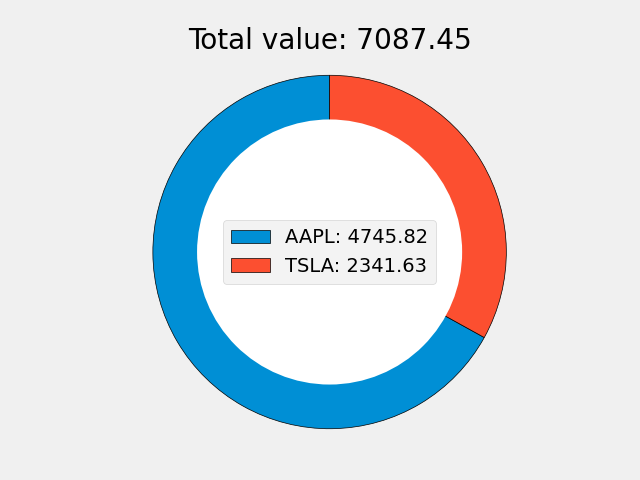
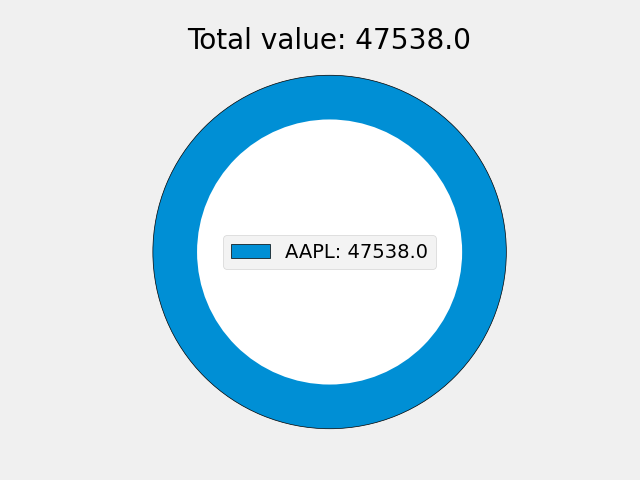
Fix Portfolio Table and Graph Bug when no stocks

Changed region(s): [[0.5, 0.1562, 0.8125, 0.7188], [0.3438, 0.4688, 0.6875, 0.5938], [0.2812, 0.0625, 0.75, 0.125]]

diff --git a/main.py b/main.py
@@ -16,10 +16,8 @@ import datetime
 
 # TODO Fix the critical Error with the MDCards, probably has to do with using root.size on the buttons and such.
 # TODO When the Rank changes also change the background, each rank has a distinct design.
-# TODO loading screen feature when changing to the plot screens (Portfolio and each stock graphic).
 # TODO Implement a save feature.
 # TODO Implement the "Investing Guide"
-
 
 aapl = pd.read_csv('stocksDB/aapl.csv')
 tsla = pd.read_csv('stocksDB/tsla.csv')
@@ -38,7 +36,7 @@ class StockApp(MDApp):
     ownedStocks = {"AAPL": 0, "TSLA": 0, "GOOGL": 0, "AMZN": 0, "^GSPC": 0, "^IXIC": 0}
     currentScreens = {"AAPL": False, "TSLA": False, "GOOGL": False, "AMZN": False, "^GSPC": False, "^IXIC": False, "portfolio": False}
     screenNames = {"AAPL": 'first', "TSLA": 'second', "GOOGL": 'third', "AMZN": 'fourth', "^GSPC": 'fifth', "^IXIC": 'sixth', "portfolio": 'portfolio'}
-    spentOnStocks = {"AAPL": 0, "TSLA": 0, "GOOGL": 0, "AMZN": 0, "^GSPC": 0, "^IXIC": 0}
+    spentOnStocks = {"AAPL": 0.00, "TSLA": 0.00, "GOOGL": 0.00, "AMZN": 0.00, "^GSPC": 0.00, "^IXIC": 0.00}
     cont = '' # Holds the name of the stock the Dialog Content will display.
     stockHistory= [] # Holds all the transactions made by the user.
     userMoney = NumericProperty(100000.00)
@@ -99,7 +97,7 @@ class StockApp(MDApp):
         elif TotalValue >= 500000 and TotalValue < 1000000:
             RankAlias.text = "Genius Investor"
         else:
-            RankAlias.text = "Warren Buffett Advisor"
+            RankAlias.text = "Warren Buffett's Advisor"
     
     def ToGraph(self, button):
         """
@@ -171,9 +169,9 @@ class StockApp(MDApp):
         self.pastStockValuesDict[stock.parent.name] =  self.currentStockPrice[stock.parent.name]
 
         if pastValue > self.currentStockPrice[stock.parent.name]:
-            return f'Diff: -{"{:,.2f}$".format(diff)} (-{"{:,.2f}%".format(diffPercent)})'
+            return f'Diff: [b][color=be3228]-{"{:,.2f}$".format(diff)} (-{"{:,.2f}%".format(diffPercent)})[/color][/b]' # Setting colors and Bold text on the labels.
         elif pastValue < self.currentStockPrice[stock.parent.name]:
-            return f'Diff: +{"{:,.2f}$".format(-diff)} (+{"{:,.2f}%".format(-diffPercent)})'
+            return f'Diff: [b][color=4CAE51]+{"{:,.2f}$".format(-diff)} (+{"{:,.2f}%".format(-diffPercent)})[/color][/b]'
         else:
             return "Diff: +/- 0 (+-0)$"
 
@@ -308,10 +306,10 @@ class StockApp(MDApp):
 
         if len(recentTradesLabels) > 10:
             self.root.get_screen("main").ids['recent_trades'].remove_widget(recentTradesLabels[-1]) 
-        recent = MDLabel(text=f"{day.time().hour}:{day.strftime('%M')} -- Bought: {int(aka.ids.text_input.text)} of {aka.stockName}", font_size=  self.root.get_screen("main").ids['recent_trades'].parent.parent.fontSize)
+        recent = MDLabel(text=f"· {day.time().hour}:{day.strftime('%M')} -- Bought: {int(aka.ids.text_input.text)} of {aka.stockName}", font_size=  self.root.get_screen("main").ids['recent_trades'].parent.parent.fontSize)
         self.root.get_screen("main").ids['recent_trades'].add_widget(recent)
 
-        self.stockHistory.append(f"{day.date()} {day.time().hour}:{day.strftime('%M')} -- Bought: {int(aka.ids.text_input.text)} of {aka.stockName}")
+        self.stockHistory.append(f"· {day.date()} {day.time().hour}:{day.strftime('%M')} -- Bought: {int(aka.ids.text_input.text)} of {aka.stockName}")
 
         ### Portolio screen changes (update values and graph.)
         if self.currentScreens['portfolio']:
@@ -332,9 +330,9 @@ class StockApp(MDApp):
         if int(aka.ids.text_input.text) > aka.ids.sell_slider.max:
             aka.ids.text_input.text = str(int(aka.ids.sell_slider.max))
 
+        self.spentOnStocks[aka.stockName] = round((self.spentOnStocks[aka.stockName] - (int(aka.ids.text_input.text) * (self.spentOnStocks[aka.stockName] / self.ownedStocks[aka.stockName]))), 2) # Just a fake relationship between the spent price and the amount of stocks that the user have, to avoid having the error of money spent over 0 when the user has no more stocks.
         self.ownedStocks[aka.stockName] -= int(aka.ids.text_input.text)
         self.userMoney += round((int(aka.ids.text_input.text) * float(self.pastStockValuesDict[aka.stockName])), 2)
-        self.spentOnStocks[aka.stockName] = round((self.spentOnStocks[aka.stockName] - (int(aka.ids.text_input.text) * float(self.pastStockValuesDict[aka.stockName]))), 2)
 
         ### Update the values from the stock screen drawer (Like the stocks owned and cash on hand).
         if self.currentScreens[aka.stockName]:
@@ -353,10 +351,10 @@ class StockApp(MDApp):
 
         if len(recentTradesLabels) > 10:
             self.root.get_screen("main").ids['recent_trades'].remove_widget(recentTradesLabels[-1]) 
-        recent = MDLabel(text=f"{day.time().hour}:{day.strftime('%M')} -- Sold: {int(aka.ids.text_input.text)} of {aka.stockName}", font_size=  self.root.get_screen("main").ids['recent_trades'].parent.parent.fontSize)
+        recent = MDLabel(text=f"· {day.time().hour}:{day.strftime('%M')} -- Sold: {int(aka.ids.text_input.text)} of {aka.stockName}", font_size=  self.root.get_screen("main").ids['recent_trades'].parent.parent.fontSize)
         self.root.get_screen("main").ids['recent_trades'].add_widget(recent)
 
-        self.stockHistory.append(f"{day.date()} {day.time().hour}:{day.strftime('%M')} -- Sold: {int(aka.ids.text_input.text)} of {aka.stockName}")
+        self.stockHistory.append(f"· {day.date()} {day.time().hour}:{day.strftime('%M')} -- Sold: {int(aka.ids.text_input.text)} of {aka.stockName}")
         
         ### Portolio screen changes (update values and graph.)
         if self.currentScreens['portfolio']:

diff --git a/libs/uix/baseclass/portfolio.py b/libs/uix/baseclass/portfolio.py
@@ -24,9 +24,7 @@ class Portfolio(Screen):
         super().__init__(**kw)
         thing.currentScreens['portfolio'] = True
 
-        for key in thing.ownedStocks:
-            if thing.ownedStocks[key] > 0:
-                self.haveStocks = True
+        self.CheckStocks()
         
         if self.haveStocks == True:
             self.PlotPie()
@@ -54,11 +52,51 @@ class Portfolio(Screen):
                     )
         self.ids.table.add_widget(self.table)
     
+    def CheckStocks(self):
+        """
+        Checks if the user has stocks and sets the value of self.haveStock accordingly.
+        """
+        for key in thing.ownedStocks:
+            if thing.ownedStocks[key] > 0:
+                self.haveStocks = True
+                return
+        self.haveStocks = False
+        return     
+
     def Update(self):
         """
         When called the pie chart and the values of the stocks in the grid are updated IF self.changes is True.
         This function is called each time the portfolio screen selected.
         """
+        self.CheckStocks() # Checks if the user has stocks remaining.
+        
+        if self.haveStocks == False: # In case he doesn't then it changes the graph image to the base one.
+            self.ids.graph.source = "images/piechartbase.png"
+            self.ids.table.remove_widget(self.ids.table.children[0])
+            self.table = MDDataTable(
+                            size_hint=(1, 1),
+                            pos_hint= {'center_x': 0.5, 'center_y': 0.5},
+                            rows_num= 6,
+                            background_color_header= (76/255,174/255,81/255,1),
+                            column_data= [
+                                ("Stock", dp(17)),
+                                ("Amount", dp(17)),
+                                ("Total Payed", dp(17)),
+                                ("Total Value", dp(17))
+                            ],
+                            row_data= [
+                                ("AAPL",thing.ownedStocks["AAPL"],thing.spentOnStocks["AAPL"],round(thing.ownedStocks["AAPL"] * thing.currentStockPrice["AAPL"], 2)),
+                                ("TSLA",thing.ownedStocks["TSLA"],thing.spentOnStocks["TSLA"],round(thing.ownedStocks["TSLA"] * thing.currentStockPrice["TSLA"], 2)),
+                                ("GOOGL",thing.ownedStocks["GOOGL"],thing.spentOnStocks["GOOGL"],round(thing.ownedStocks["GOOGL"] * thing.currentStockPrice["GOOGL"], 2)),
+                                ("AMZN",thing.ownedStocks["AMZN"],thing.spentOnStocks["AMZN"],round(thing.ownedStocks["AMZN"] * thing.currentStockPrice["AMZN"], 2)),
+                                ("^GSPC",thing.ownedStocks["^GSPC"],thing.spentOnStocks["^GSPC"],round(thing.ownedStocks["^GSPC"] * thing.currentStockPrice["^GSPC"], 2)),
+                                ("^IXIC",thing.ownedStocks["^IXIC"],thing.spentOnStocks["^IXIC"],round(thing.ownedStocks["^IXIC"] * thing.currentStockPrice["^IXIC"], 2))
+                            ] 
+                        )
+            self.ids.table.add_widget(self.table)
+            self.changes = False
+            return
+        
         if self.changes == True:
             self.ids.graph.source = "images/piechart.png" # To change the piechartbase image to the new location and be able to update it.
             self.PlotPie()
